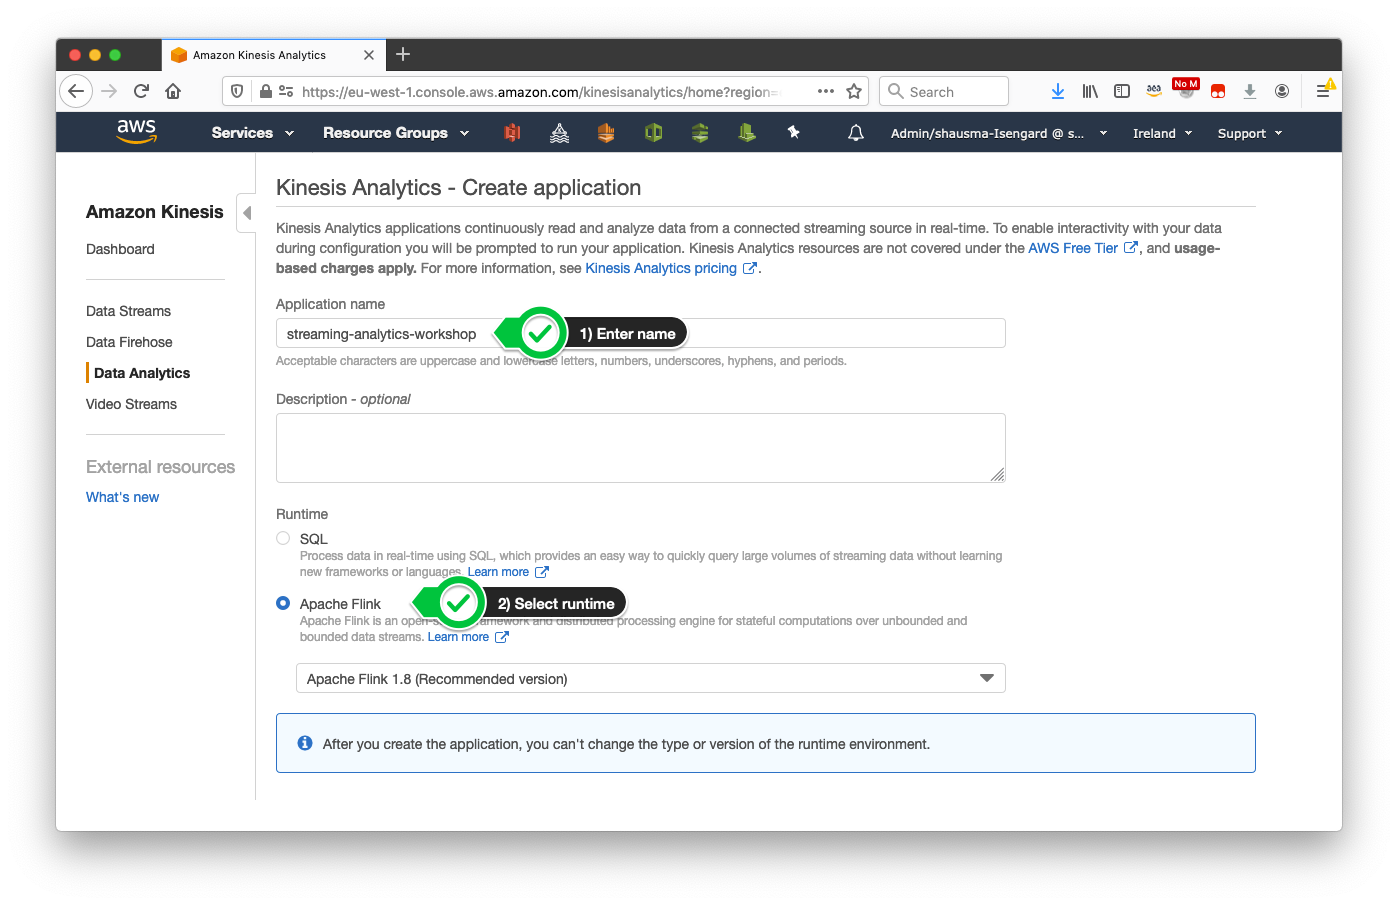
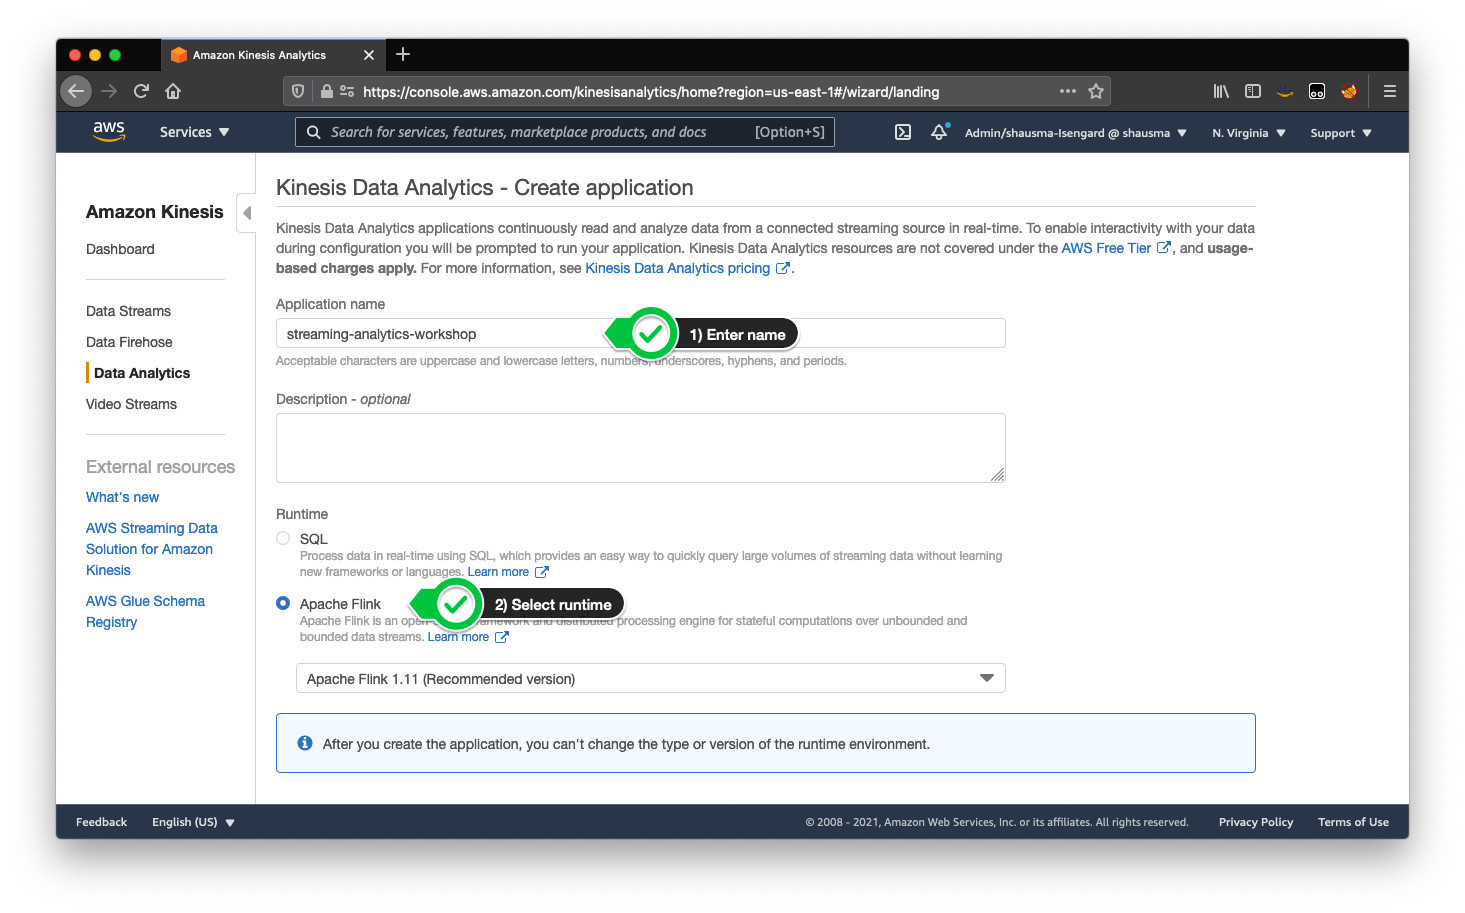
Update deployment to KDA for Flink 1.11

diff --git a/workshop/content/flink-on-kda/deploy-to-kda/configure-kda-app.en.md b/workshop/content/flink-on-kda/deploy-to-kda/configure-kda-app.en.md
@@ -20,13 +20,12 @@ The skeleton of the application has now been created. But you still need to adap
 
 	![Configure Property Group](/images/flink-on-kda/kda-property-group.png)
 
-1. Expand the **Snapshots** section and **Disable** snapshots for the application
-	{{% notice info %}}
-Enabling snapshots allows the service to maintain the state of a Flink application in case of application updates but also when recovering from infrastructure or application errors. So for production environments it is highly desirable to keep snapshots enabled.
-	{{% /notice %}}
-
-1. Expand the **Monitoring** section. Select **Task** as **Monitoring metrics level** and enable **CloudWatch** logging.
+1. Expand the **Monitoring** section and verify that **Task** is selected as **Monitoring metrics level** and **CloudWatch logging** is eneabled.
 
 	![Configure Monitoring](/images/flink-on-kda/kda-monitoring.png)
 
-1. Keep the default settings for **Scaling** and **VPC Connectivity** and press the blue **Update** button at the bottom of the page to update the properties of the application
+1. Expand the **Scaling** section and reduce the **Parallelism** to `1`
+
+        ![Configure Scaling](/images/flink-on-kda/kda-configure-scaling.png)
+
+1. Keep the default settings **VPC Connectivity** and press the blue **Update** button at the bottom of the page to update the properties of the application

diff --git a/workshop/content/flink-on-kda/deploy-to-kda/start-kda-app.en.md b/workshop/content/flink-on-kda/deploy-to-kda/start-kda-app.en.md
@@ -10,7 +10,9 @@ The application is finally ready for execution through the Kinesis Data Analytic
 Before you proceed, make sure that you are currently not producing any events into the Kinesis stream. Navigate to the Terminal pane in IntelliJ and if the Java producer application is still running, terminate it by pressing *Ctrl-C*.
 {{% /notice %}}
 
-1. Once the update has completed, press **Run** on the resulting page and confirm that you want to run the application by choosing **Run** again. The application will now start in the background, which can take a couple of minutes. Once it is running, you can inspect the operator graph of the Flink application. 
+1. Once the update has completed, press **Run** on the resulting page and confirm that you want to run the application by choosing **Run** again. 
+
+1. When promted, confirm to *Run without snapshot* and press the blue **Run** button. The application will now start in the background, which can take a couple of minutes. Once it is running, you can inspect the operator graph of the Flink application. 
 
 	![](/images/flink-on-kda/kda-running-app.png)
 

diff --git a/workshop/content/flink-on-kda/deploy-to-kda/create-kda-app.en.md b/workshop/content/flink-on-kda/deploy-to-kda/create-kda-app.en.md
@@ -10,7 +10,7 @@ You can then create the Kinesis Analytics application. A Kinesis Analytics for J
 
 	![Kinesis Dashboard](/images/flink-on-kda/kinesis-welcome-create-kda.png)
 
-1. Enter `streaming-analytics-workshop` as the **Application name** and select *Apache Flink 1.8* as the **Runtime**. 
+1. Enter `streaming-analytics-workshop` as the **Application name** and select *Apache Flink 1.11* as the **Runtime**. 
 
 	![Create KDA Application](/images/flink-on-kda/kda-create-app.png)
 
